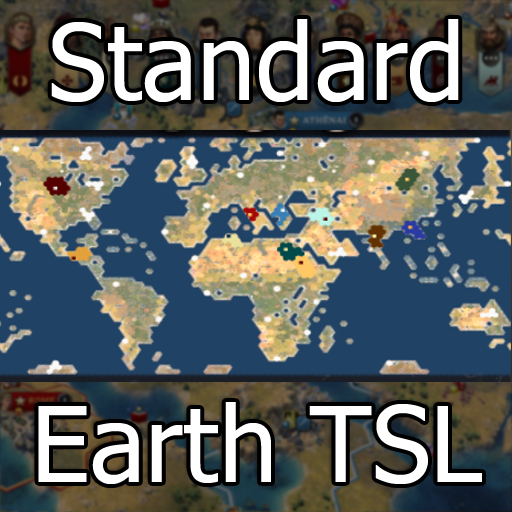
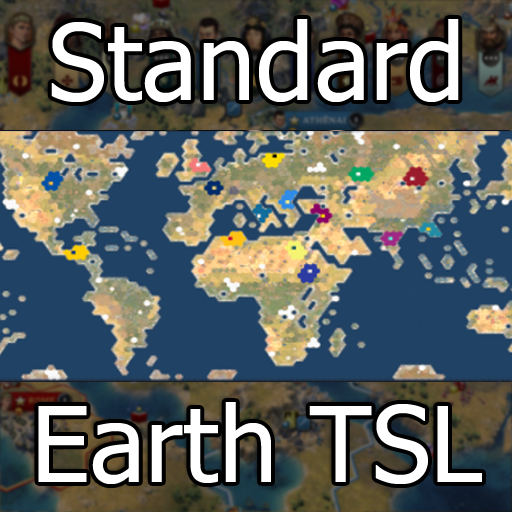
StandardEarth v14

Changed region(s): [[0.0, 0.25, 1.0, 0.75], [0.0, 0.5625, 0.0625, 0.6875], [0.9375, 0.4375, 1.0, 0.5]]

diff --git a/mods/EarthStandard/maps/EarthStandard-data.js b/mods/EarthStandard/maps/EarthStandard-data.js
@@ -1025,7 +1025,7 @@ export function GetMap() {
     MapToConvert[80][11]=["TERRAIN_COAST", "BIOME_MARINE", -1, -1];
     MapToConvert[81][11]=["TERRAIN_FLAT", "BIOME_PLAINS", -1, -1];
     MapToConvert[82][11]=["TERRAIN_MOUNTAIN", "BIOME_GRASSLAND", -1, -1];
-    MapToConvert[83][11]=["TERRAIN_FLAT", "BIOME_GRASSLAND", -1, -1];
+    MapToConvert[83][11]=["TERRAIN_COAST", "BIOME_MARINE", -1, -1];
     MapToConvert[0][12]=["TERRAIN_OCEAN", "BIOME_MARINE", -1, -1];
     MapToConvert[1][12]=["TERRAIN_COAST", "BIOME_MARINE", -1, -1];
     MapToConvert[2][12]=["TERRAIN_COAST", "BIOME_MARINE", -1, -1];
@@ -2456,7 +2456,7 @@ export function GetMap() {
     MapToConvert[83][28]=["TERRAIN_OCEAN", "BIOME_MARINE", -1, -1];
     MapToConvert[0][29]=["TERRAIN_HILL", "BIOME_GRASSLAND", -1, -1];
     MapToConvert[1][29]=["TERRAIN_COAST", "BIOME_MARINE", -1, -1];
-    MapToConvert[2][29]=["TERRAIN_COAST", "BIOME_MARINE", -1, -1];
+    MapToConvert[2][29]=["TERRAIN_OCEAN", "BIOME_MARINE", -1, -1];
     MapToConvert[3][29]=["TERRAIN_OCEAN", "BIOME_MARINE", -1, -1];
     MapToConvert[4][29]=["TERRAIN_OCEAN", "BIOME_MARINE", -1, -1];
     MapToConvert[5][29]=["TERRAIN_OCEAN", "BIOME_MARINE", -1, -1];
@@ -2587,8 +2587,8 @@ export function GetMap() {
     MapToConvert[46][30]=["TERRAIN_FLAT", "BIOME_PLAINS", -1, -1];
     MapToConvert[47][30]=["TERRAIN_FLAT", "BIOME_DESERT", "FEATURE_DESERT_FLOODPLAIN_MINOR", -1];
     MapToConvert[48][30]=["TERRAIN_HILL", "BIOME_DESERT", -1, -1];
-    MapToConvert[49][30]=["TERRAIN_COAST", "BIOME_MARINE", -1, -1];
-    MapToConvert[50][30]=["TERRAIN_HILL", "BIOME_DESERT", -1, -1];
+    MapToConvert[49][30]=["TERRAIN_HILL", "BIOME_DESERT", -1, -1];
+    MapToConvert[50][30]=["TERRAIN_COAST", "BIOME_MARINE", -1, -1];
     MapToConvert[51][30]=["TERRAIN_HILL", "BIOME_DESERT", -1, -1];
     MapToConvert[52][30]=["TERRAIN_FLAT", "BIOME_DESERT", "FEATURE_OASIS", -1];
     MapToConvert[53][30]=["TERRAIN_FLAT", "BIOME_DESERT", -1, -1];
@@ -2623,7 +2623,7 @@ export function GetMap() {
     MapToConvert[82][30]=["TERRAIN_COAST", "BIOME_MARINE", -1, -1];
     MapToConvert[83][30]=["TERRAIN_COAST", "BIOME_MARINE", -1, -1];
     MapToConvert[0][31]=["TERRAIN_COAST", "BIOME_MARINE", -1, -1];
-    MapToConvert[1][31]=["TERRAIN_COAST", "BIOME_MARINE", -1, -1];
+    MapToConvert[1][31]=["TERRAIN_OCEAN", "BIOME_MARINE", -1, -1];
     MapToConvert[2][31]=["TERRAIN_OCEAN", "BIOME_MARINE", -1, -1];
     MapToConvert[3][31]=["TERRAIN_OCEAN", "BIOME_MARINE", -1, -1];
     MapToConvert[4][31]=["TERRAIN_OCEAN", "BIOME_MARINE", -1, -1];
@@ -3153,7 +3153,7 @@ export function GetMap() {
     MapToConvert[24][37]=["TERRAIN_OCEAN", "BIOME_MARINE", -1, -1];
     MapToConvert[25][37]=["TERRAIN_OCEAN", "BIOME_MARINE", -1, -1];
     MapToConvert[26][37]=["TERRAIN_OCEAN", "BIOME_MARINE", -1, -1];
-    MapToConvert[27][37]=["TERRAIN_COAST", "BIOME_MARINE", -1, -1];
+    MapToConvert[27][37]=["TERRAIN_OCEAN", "BIOME_MARINE", -1, -1];
     MapToConvert[28][37]=["TERRAIN_COAST", "BIOME_MARINE", -1, -1];
     MapToConvert[29][37]=["TERRAIN_COAST", "BIOME_MARINE", -1, -1];
     MapToConvert[30][37]=["TERRAIN_COAST", "BIOME_MARINE", -1, -1];
@@ -3376,8 +3376,8 @@ export function GetMap() {
     MapToConvert[79][39]=["TERRAIN_COAST", "BIOME_MARINE", -1, -1];
     MapToConvert[80][39]=["TERRAIN_FLAT", "BIOME_PLAINS", -1, -1];
     MapToConvert[81][39]=["TERRAIN_HILL", "BIOME_PLAINS", -1, -1];
-    MapToConvert[82][39]=["TERRAIN_FLAT", "BIOME_PLAINS", -1, -1];
-    MapToConvert[83][39]=["TERRAIN_COAST", "BIOME_MARINE", -1, -1];
+    MapToConvert[82][39]=["TERRAIN_COAST", "BIOME_PLAINS", -1, -1];
+    MapToConvert[83][39]=["TERRAIN_OCEAN", "BIOME_MARINE", -1, -1];
     MapToConvert[0][40]=["TERRAIN_OCEAN", "BIOME_MARINE", -1, -1];
     MapToConvert[1][40]=["TERRAIN_COAST", "BIOME_GRASSLAND", -1, -1];
     MapToConvert[2][40]=["TERRAIN_HILL", "BIOME_GRASSLAND", -1, -1];
@@ -3461,7 +3461,7 @@ export function GetMap() {
     MapToConvert[80][40]=["TERRAIN_HILL", "BIOME_PLAINS", -1, -1];
     MapToConvert[81][40]=["TERRAIN_FLAT", "BIOME_PLAINS", -1, -1];
     MapToConvert[82][40]=["TERRAIN_COAST", "BIOME_MARINE", -1, -1];
-    MapToConvert[83][40]=["TERRAIN_COAST", "BIOME_MARINE", -1, -1];
+    MapToConvert[83][40]=["TERRAIN_OCEAN", "BIOME_MARINE", -1, -1];
     MapToConvert[0][41]=["TERRAIN_OCEAN", "BIOME_MARINE", -1, -1];
     MapToConvert[1][41]=["TERRAIN_COAST", "BIOME_MARINE", -1, -1];
     MapToConvert[2][41]=["TERRAIN_HILL", "BIOME_GRASSLAND", -1, -1];
@@ -3545,7 +3545,7 @@ export function GetMap() {
     MapToConvert[80][41]=["TERRAIN_FLAT", "BIOME_GRASSLAND", -1, -1];
     MapToConvert[81][41]=["TERRAIN_HILL", "BIOME_PLAINS", -1, -1];
     MapToConvert[82][41]=["TERRAIN_COAST", "BIOME_MARINE", -1, -1];
-    MapToConvert[83][41]=["TERRAIN_COAST", "BIOME_MARINE", -1, -1];
+    MapToConvert[83][41]=["TERRAIN_OCEAN", "BIOME_MARINE", -1, -1];
     MapToConvert[0][42]=["TERRAIN_OCEAN", "BIOME_MARINE", -1, -1];
     MapToConvert[1][42]=["TERRAIN_COAST", "BIOME_GRASSLAND", -1, -1];
     MapToConvert[2][42]=["TERRAIN_HILL", "BIOME_GRASSLAND", -1, -1];
@@ -3629,7 +3629,7 @@ export function GetMap() {
     MapToConvert[80][42]=["TERRAIN_FLAT", "BIOME_GRASSLAND", -1, -1];
     MapToConvert[81][42]=["TERRAIN_HILL", "BIOME_PLAINS", -1, -1];
     MapToConvert[82][42]=["TERRAIN_COAST", "BIOME_MARINE", -1, -1];
-    MapToConvert[83][42]=["TERRAIN_COAST", "BIOME_MARINE", -1, -1];
+    MapToConvert[83][42]=["TERRAIN_OCEAN", "BIOME_MARINE", -1, -1];
     MapToConvert[0][43]=["TERRAIN_OCEAN", "BIOME_MARINE", -1, -1];
     MapToConvert[1][43]=["TERRAIN_COAST", "BIOME_MARINE", -1, -1];
     MapToConvert[2][43]=["TERRAIN_FLAT", "BIOME_GRASSLAND", -1, -1];
@@ -3712,8 +3712,8 @@ export function GetMap() {
     MapToConvert[79][43]=["TERRAIN_COAST", "BIOME_MARINE", -1, -1];
     MapToConvert[80][43]=["TERRAIN_HILL", "BIOME_GRASSLAND", -1, -1];
     MapToConvert[81][43]=["TERRAIN_MOUNTAIN", "BIOME_GRASSLAND", -1, -1];
-    MapToConvert[82][43]=["TERRAIN_FLAT", "BIOME_PLAINS", -1, -1];
-    MapToConvert[83][43]=["TERRAIN_HILL", "BIOME_PLAINS", -1, -1];
+    MapToConvert[82][43]=["TERRAIN_COAST", "BIOME_PLAINS", -1, -1];
+    MapToConvert[83][43]=["TERRAIN_OCEAN", "BIOME_MARINE", -1, -1];
     MapToConvert[0][44]=["TERRAIN_OCEAN", "BIOME_MARINE", -1, -1];
     MapToConvert[1][44]=["TERRAIN_COAST", "BIOME_MARINE", -1, -1];
     MapToConvert[2][44]=["TERRAIN_FLAT", "BIOME_GRASSLAND", -1, -1];
@@ -3796,8 +3796,8 @@ export function GetMap() {
     MapToConvert[79][44]=["TERRAIN_COAST", "BIOME_MARINE", -1, -1];
     MapToConvert[80][44]=["TERRAIN_MOUNTAIN", "BIOME_GRASSLAND", -1, -1];
     MapToConvert[81][44]=["TERRAIN_HILL", "BIOME_GRASSLAND", -1, -1];
-    MapToConvert[82][44]=["TERRAIN_FLAT", "BIOME_PLAINS", -1, -1];
-    MapToConvert[83][44]=["TERRAIN_COAST", "BIOME_MARINE", -1, -1];
+    MapToConvert[82][44]=["TERRAIN_COAST", "BIOME_PLAINS", -1, -1];
+    MapToConvert[83][44]=["TERRAIN_OCEAN", "BIOME_MARINE", -1, -1];
     MapToConvert[0][45]=["TERRAIN_OCEAN", "BIOME_MARINE", -1, -1];
     MapToConvert[1][45]=["TERRAIN_COAST", "BIOME_MARINE", -1, -1];
     MapToConvert[2][45]=["TERRAIN_HILL", "BIOME_GRASSLAND", -1, -1];
@@ -4133,7 +4133,7 @@ export function GetMap() {
     MapToConvert[80][48]=["TERRAIN_COAST", "BIOME_MARINE", -1, -1];
     MapToConvert[81][48]=["TERRAIN_FLAT", "BIOME_PLAINS", -1, -1];
     MapToConvert[82][48]=["TERRAIN_COAST", "BIOME_MARINE", -1, -1];
-    MapToConvert[83][48]=["TERRAIN_COAST", "BIOME_MARINE", -1, -1];
+    MapToConvert[83][48]=["TERRAIN_OCEAN", "BIOME_MARINE", -1, -1];
     MapToConvert[0][49]=["TERRAIN_COAST", "BIOME_MARINE", -1, -1];
     MapToConvert[1][49]=["TERRAIN_HILL", "BIOME_GRASSLAND", -1, -1];
     MapToConvert[2][49]=["TERRAIN_MOUNTAIN", "BIOME_GRASSLAND", -1, -1];
@@ -4216,9 +4216,9 @@ export function GetMap() {
     MapToConvert[79][49]=["TERRAIN_COAST", "BIOME_MARINE", -1, -1];
     MapToConvert[80][49]=["TERRAIN_FLAT", "BIOME_PLAINS", -1, -1];
     MapToConvert[81][49]=["TERRAIN_HILL", "BIOME_PLAINS", -1, -1];
-    MapToConvert[82][49]=["TERRAIN_HILL", "BIOME_PLAINS", -1, -1];
-    MapToConvert[83][49]=["TERRAIN_COAST", "BIOME_MARINE", -1, -1];
-    MapToConvert[0][50]=["TERRAIN_FLAT", "BIOME_PLAINS", -1, -1];
+    MapToConvert[82][49]=["TERRAIN_COAST", "BIOME_PLAINS", -1, -1];
+    MapToConvert[83][49]=["TERRAIN_OCEAN", "BIOME_MARINE", -1, -1];
+    MapToConvert[0][50]=["TERRAIN_COAST", "BIOME_MARINE", -1, -1];
     MapToConvert[1][50]=["TERRAIN_HILL", "BIOME_GRASSLAND", -1, -1];
     MapToConvert[2][50]=["TERRAIN_HILL", "BIOME_GRASSLAND", -1, -1];
     MapToConvert[3][50]=["TERRAIN_FLAT", "BIOME_PLAINS", -1, -1];
@@ -4301,8 +4301,8 @@ export function GetMap() {
     MapToConvert[80][50]=["TERRAIN_HILL", "BIOME_PLAINS", -1, -1];
     MapToConvert[81][50]=["TERRAIN_HILL", "BIOME_PLAINS", -1, -1];
     MapToConvert[82][50]=["TERRAIN_COAST", "BIOME_MARINE", -1, -1];
-    MapToConvert[83][50]=["TERRAIN_COAST", "BIOME_MARINE", -1, -1];
-    MapToConvert[0][51]=["TERRAIN_MOUNTAIN", "BIOME_PLAINS", -1, -1];
+    MapToConvert[83][50]=["TERRAIN_OCEAN", "BIOME_MARINE", -1, -1];
+    MapToConvert[0][51]=["TERRAIN_COAST", "BIOME_MARINE", -1, -1];
     MapToConvert[1][51]=["TERRAIN_HILL", "BIOME_PLAINS", -1, -1];
     MapToConvert[2][51]=["TERRAIN_FLAT", "BIOME_PLAINS", -1, -1];
     MapToConvert[3][51]=["TERRAIN_HILL", "BIOME_PLAINS", -1, -1];
@@ -4384,9 +4384,9 @@ export function GetMap() {
     MapToConvert[79][51]=["TERRAIN_COAST", "BIOME_MARINE", -1, -1];
     MapToConvert[80][51]=["TERRAIN_FLAT", "BIOME_PLAINS", -1, -1];
     MapToConvert[81][51]=["TERRAIN_COAST", "BIOME_MARINE", -1, -1];
-    MapToConvert[82][51]=["TERRAIN_COAST", "BIOME_MARINE", -1, -1];
+    MapToConvert[82][51]=["TERRAIN_OCEAN", "BIOME_MARINE", -1, -1];
     MapToConvert[83][51]=["TERRAIN_OCEAN", "BIOME_MARINE", -1, -1];
-    MapToConvert[0][52]=["TERRAIN_HILL", "BIOME_PLAINS", -1, -1];
+    MapToConvert[0][52]=["TERRAIN_COAST", "BIOME_MARINE", -1, -1];
     MapToConvert[1][52]=["TERRAIN_MOUNTAIN", "BIOME_PLAINS", -1, -1];
     MapToConvert[2][52]=["TERRAIN_HILL", "BIOME_PLAINS", -1, -1];
     MapToConvert[3][52]=["TERRAIN_MOUNTAIN", "BIOME_PLAINS", -1, -1];
@@ -4469,8 +4469,8 @@ export function GetMap() {
     MapToConvert[80][52]=["TERRAIN_COAST", "BIOME_MARINE", -1, -1];
     MapToConvert[81][52]=["TERRAIN_COAST", "BIOME_MARINE", -1, -1];
     MapToConvert[82][52]=["TERRAIN_OCEAN", "BIOME_MARINE", -1, -1];
-    MapToConvert[83][52]=["TERRAIN_COAST", "BIOME_MARINE", -1, -1];
-    MapToConvert[0][53]=["TERRAIN_MOUNTAIN", "BIOME_TUNDRA", -1, -1];
+    MapToConvert[83][52]=["TERRAIN_OCEAN", "BIOME_MARINE", -1, -1];
+    MapToConvert[0][53]=["TERRAIN_COAST", "BIOME_MARINE", -1, -1];
     MapToConvert[1][53]=["TERRAIN_HILL", "BIOME_PLAINS", -1, -1];
     MapToConvert[2][53]=["TERRAIN_HILL", "BIOME_PLAINS", -1, -1];
     MapToConvert[3][53]=["TERRAIN_HILL", "BIOME_PLAINS", -1, -1];
@@ -4552,8 +4552,8 @@ export function GetMap() {
     MapToConvert[79][53]=["TERRAIN_COAST", "BIOME_MARINE", -1, -1];
     MapToConvert[80][53]=["TERRAIN_COAST", "BIOME_MARINE", -1, -1];
     MapToConvert[81][53]=["TERRAIN_OCEAN", "BIOME_MARINE", -1, -1];
-    MapToConvert[82][53]=["TERRAIN_COAST", "BIOME_MARINE", -1, -1];
-    MapToConvert[83][53]=["TERRAIN_COAST", "BIOME_MARINE", -1, -1];
+    MapToConvert[82][53]=["TERRAIN_OCEAN", "BIOME_MARINE", -1, -1];
+    MapToConvert[83][53]=["TERRAIN_OCEAN", "BIOME_MARINE", -1, -1];
 
     return MapToConvert;
 }
